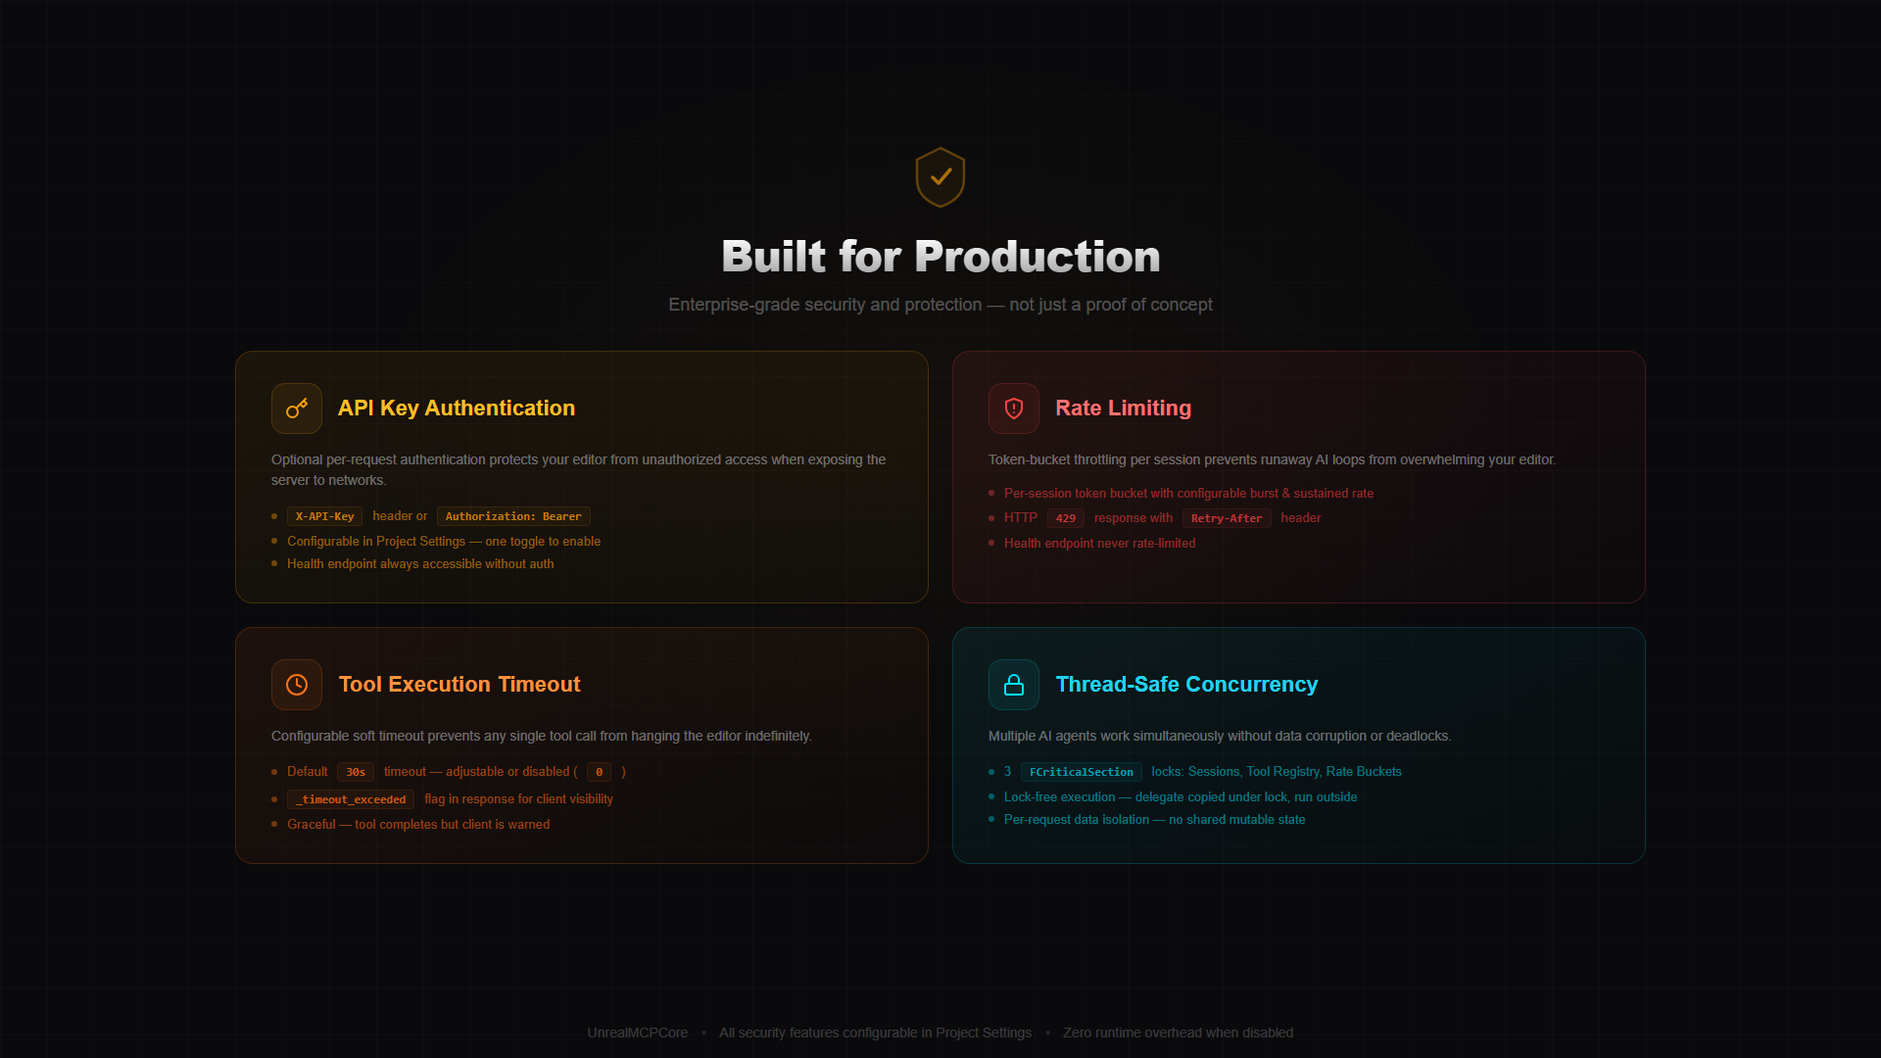
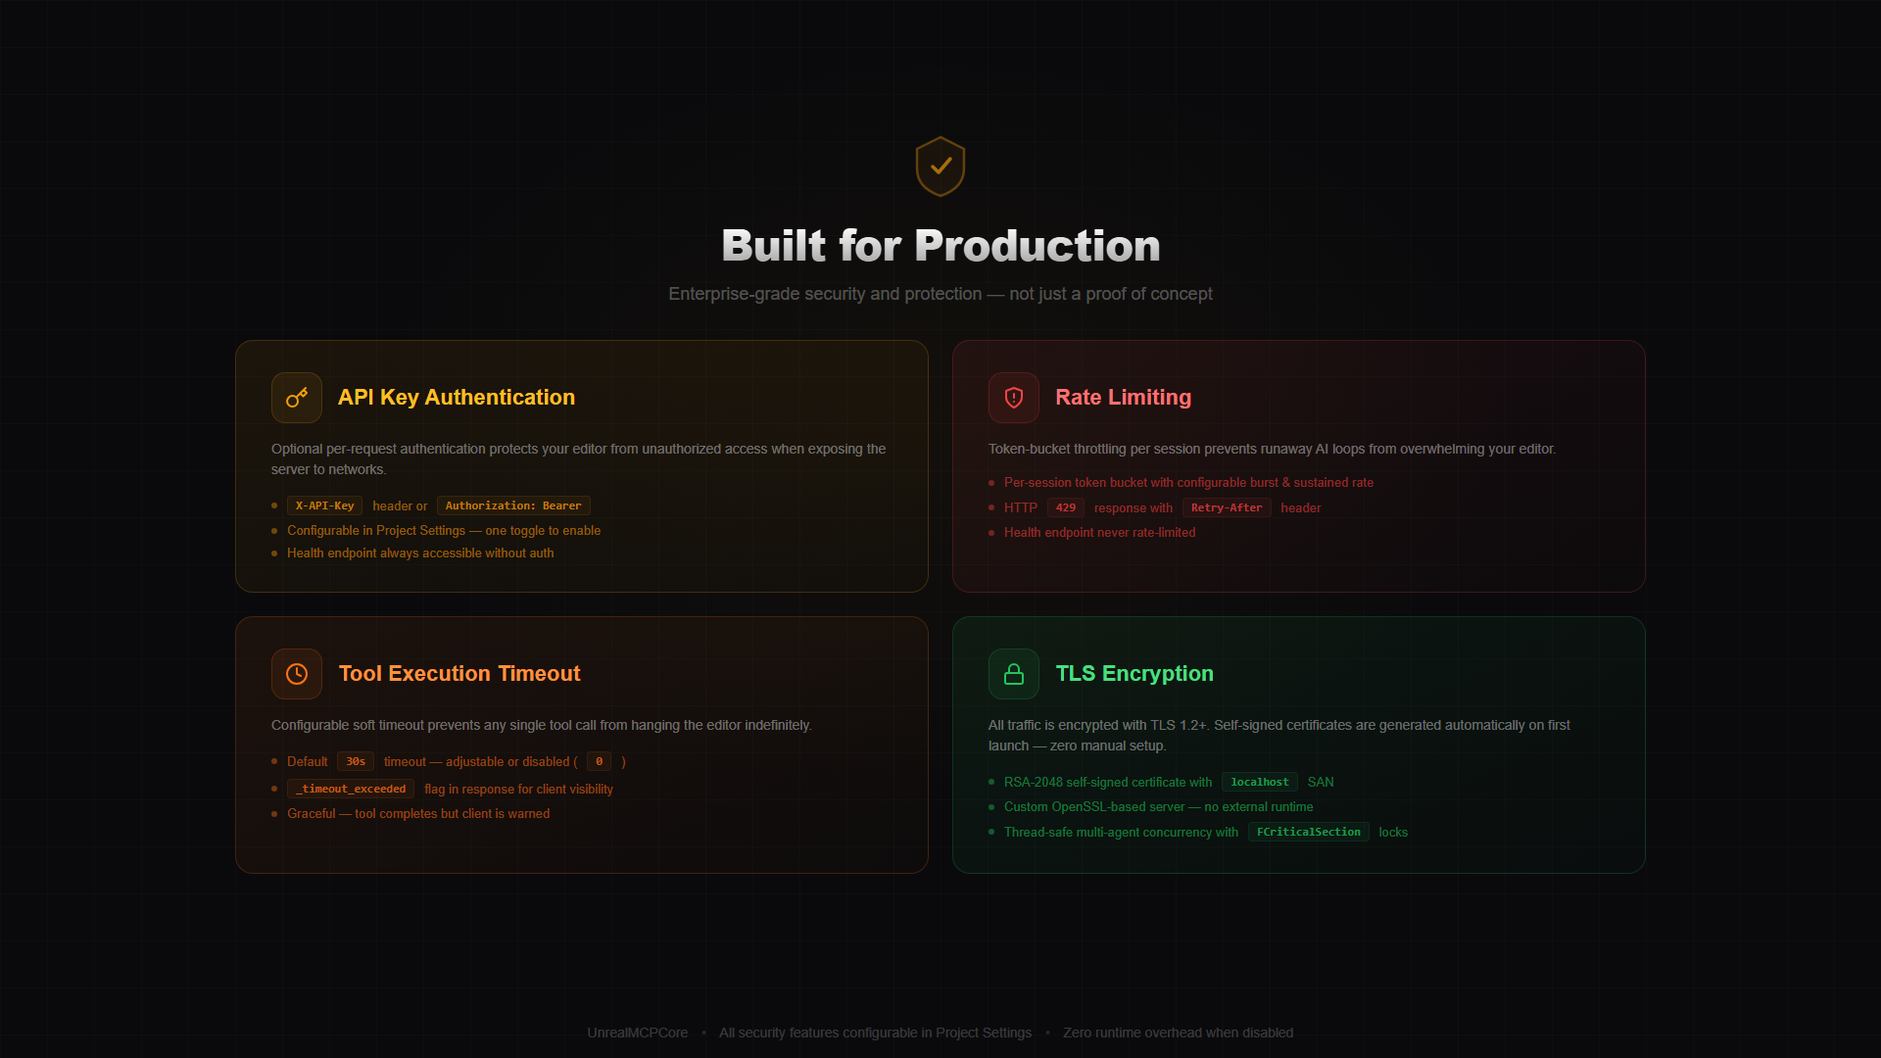
Updated for HTTPS

diff --git a/fab_media/gallery_09_security.html b/fab_media/gallery_09_security.html
@@ -168,6 +168,23 @@
     background: rgba(0,200,220,0.06); border: 1px solid rgba(0,200,220,0.10);
   }
 
+  /* ── Card 5: TLS Encryption — Green ── */
+  .card-tls {
+    background: linear-gradient(155deg, rgba(34,197,94,0.08), rgba(34,197,94,0.015));
+    border: 1.5px solid rgba(34,197,94,0.20);
+  }
+  .card-tls .card-icon {
+    background: rgba(34,197,94,0.08); border: 1px solid rgba(34,197,94,0.18);
+    color: #22c55e;
+  }
+  .card-tls .card-title { color: #4ade80; }
+  .card-tls .detail-row { color: rgba(34,197,94,0.55); }
+  .card-tls .dot { background: rgba(34,197,94,0.40); }
+  .card-tls code {
+    color: rgba(34,197,94,0.75);
+    background: rgba(34,197,94,0.06); border: 1px solid rgba(34,197,94,0.10);
+  }
+
   /* ── Bottom bar ── */
   .bottom-bar {
     position: absolute; bottom: 18px; left: 50%; transform: translateX(-50%);
@@ -256,21 +273,21 @@
     </div>
   </div>
 
-  <!-- Card 4: Thread Safety -->
-  <div class="feature-card card-thread">
+  <!-- Card 4: TLS Encryption -->
+  <div class="feature-card card-tls">
     <div class="card-header">
       <div class="card-icon">
         <svg width="24" height="24" viewBox="0 0 24 24" fill="none" stroke="currentColor" stroke-width="2" stroke-linecap="round" stroke-linejoin="round">
           <rect x="3" y="11" width="18" height="11" rx="2" ry="2"/><path d="M7 11V7a5 5 0 0 1 10 0v4"/>
         </svg>
       </div>
-      <div class="card-title">Thread-Safe Concurrency</div>
+      <div class="card-title">TLS Encryption</div>
     </div>
-    <div class="card-desc">Multiple AI agents work simultaneously without data corruption or deadlocks.</div>
+    <div class="card-desc">All traffic is encrypted with TLS 1.2+. Self-signed certificates are generated automatically on first launch — zero manual setup.</div>
     <div class="card-details">
-      <div class="detail-row"><div class="dot"></div>3 <code>FCriticalSection</code> locks: Sessions, Tool Registry, Rate Buckets</div>
-      <div class="detail-row"><div class="dot"></div>Lock-free execution — delegate copied under lock, run outside</div>
-      <div class="detail-row"><div class="dot"></div>Per-request data isolation — no shared mutable state</div>
+      <div class="detail-row"><div class="dot"></div>RSA-2048 self-signed certificate with <code>localhost</code> SAN</div>
+      <div class="detail-row"><div class="dot"></div>Custom OpenSSL-based server — no external runtime</div>
+      <div class="detail-row"><div class="dot"></div>Thread-safe multi-agent concurrency with <code>FCriticalSection</code> locks</div>
     </div>
   </div>
 

diff --git a/FAB_DESCRIPTION.html b/FAB_DESCRIPTION.html
@@ -10,7 +10,7 @@
 <h2>How It Works</h2>
 <ol>
 <li><strong>Install</strong> the plugin: the MCP server starts automatically when the editor opens.</li>
-<li><strong>Connect</strong> your AI client to <code>http://localhost:8090/mcp</code> (HTTP) or use the included stdio proxy for clients like Claude Desktop.</li>
+<li><strong>Connect</strong> your AI client to <code>https://localhost:8090/mcp</code> (HTTPS) or use the included stdio proxy for clients like Claude Desktop.</li>
 <li><strong>Build</strong>: your AI agent can now create Blueprints, edit materials, spawn actors, wire nodes, configure animations, and much more. 360 tools at its disposal.</li>
 </ol>
 
@@ -18,7 +18,7 @@
 <ul>
 <li><strong>360 Tools, 30 Categories:</strong> From Blueprints and Materials to Niagara VFX, PCG, Sequencer, GAS, and Animation Blueprints: the most comprehensive MCP bridge for Unreal Engine available.</li>
 <li><strong>Zero External Dependencies:</strong> Pure C++ plugin. No Python runtime, no Node.js server, no Docker containers. Install, open the editor, connect.</li>
-<li><strong>Works With Any MCP Client:</strong> Supports HTTP (Streamable HTTP + SSE) and stdio transports out of the box. Claude Desktop, Devin, Cursor, or any JSON-RPC 2.0 client.</li>
+<li><strong>Works With Any MCP Client:</strong> Supports HTTPS (Streamable HTTP + SSE) and stdio transports out of the box. Claude Desktop, Devin, Cursor, or any JSON-RPC 2.0 client.</li>
 <li><strong>Multi-Agent Ready:</strong> Multiple AI agents can connect simultaneously, each with their own session. Thread-safe by design.</li>
 <li><strong>Fab-Safe Architecture:</strong> Optional engine plugins (GAS, Niagara, PCG, etc.) are isolated into separate extension DLLs. If a plugin isn't installed in your project, those tools are silently skipped: everything else works perfectly.</li>
 <li><strong>Built-In Monitoring:</strong> The MCP Monitor Panel shows every tool call in real time with details, revert (undo), and retry. Dock it anywhere in the editor layout.</li>
@@ -57,7 +57,7 @@
 
 <h2>Code Modules</h2>
 <ul>
-<li><strong>UnrealMCPCore</strong> [Editor]: HTTP server, MCP protocol, 273 core tools, monitor panel, settings UI.</li>
+<li><strong>UnrealMCPCore</strong> [Editor]: HTTPS server (TLS 1.2+), MCP protocol, 273 core tools, monitor panel, settings UI.</li>
 <li><strong>9 Extension Modules</strong> [Editor]: GAS (13 tools), Niagara (11), PCG (13), StateTree (7), SmartObject (5), EnhancedInput (8), MetaSound (19), ControlRig (6), MotionDesign (5). Each loads independently; missing dependencies are silently skipped.</li>
 </ul>
 

diff --git a/FAB_TECHNICAL_DETAILS.html b/FAB_TECHNICAL_DETAILS.html
@@ -5,7 +5,7 @@
 
 <h2>Code Modules (all Editor)</h2>
 <ul>
-<li><b>UnrealMCPCore</b>: 273 core tools, HTTP server, JSON-RPC 2.0, MCP Monitor Panel, settings UI</li>
+<li><b>UnrealMCPCore</b>: 273 core tools, HTTPS server (TLS 1.2+), JSON-RPC 2.0, MCP Monitor Panel, settings UI</li>
 <li><b>UnrealMCPCoreGAS</b>: 13 Gameplay Ability System tools</li>
 <li><b>UnrealMCPCoreNiagara</b>: 11 Niagara VFX tools</li>
 <li><b>UnrealMCPCorePCG</b>: 13 Procedural Content Generation tools</li>
@@ -21,13 +21,13 @@
 
 <p><b>360 Tools</b> across 30 categories: Blueprint, Asset, Level, Material, Animation, Widget/UI, DataTable, PCG, Niagara, Sequencer, Behavior Tree, State Tree, EQS, Smart Object, Mesh, Enhanced Input, GAS, Audio, Landscape, Physics, Foliage, World Partition, Control Rig, Rendering, Curve, Motion Design, Project, PIE/Testing, and more.</p>
 
-<p><b>Protocol:</b> JSON-RPC 2.0 over MCP Streamable HTTP + stdio proxy<br>
+<p><b>Protocol:</b> JSON-RPC 2.0 over MCP Streamable HTTPS + stdio proxy<br>
 <b>Dependencies:</b> None — pure C++ plugin using only built-in UE modules<br>
 <b>Thread Safety:</b> FCriticalSection locks; multiple AI agents can connect simultaneously<br>
 <b>Platforms:</b> Win64, Mac, Linux | UE 5.5+</p>
 
 <h2>Compatible AI Clients</h2>
-<p>Claude Desktop, Devin, Cursor, Windsurf, or any JSON-RPC 2.0 client over HTTP/stdio.</p>
+<p>Claude Desktop, Devin, Cursor, Windsurf, or any JSON-RPC 2.0 client over HTTPS/stdio.</p>
 
 <h2>Documentation</h2>
 <p>Per-tool reference with schemas and examples: <a href="https://github.com/Franiboy/UnrealMCPCoreProject-Docs">GitHub Docs</a></p>

diff --git a/FAB_DESCRIPTION_FREE.html b/FAB_DESCRIPTION_FREE.html
@@ -10,7 +10,7 @@
 <h2>How It Works</h2>
 <ol>
 <li><strong>Install</strong> the plugin: the MCP server starts automatically when the editor opens.</li>
-<li><strong>Connect</strong> your AI client to <code>http://localhost:8090/mcp</code> (HTTP) or use the included stdio proxy for clients like Claude Desktop.</li>
+<li><strong>Connect</strong> your AI client to <code>https://localhost:8090/mcp</code> (HTTPS) or use the included stdio proxy for clients like Claude Desktop.</li>
 <li><strong>Build</strong>: your AI agent can create Blueprints, edit materials, spawn actors, and more.</li>
 </ol>
 
@@ -22,7 +22,7 @@
 
 <h2>Key Features (included in Free)</h2>
 <ul>
-<li><strong>MCP Server:</strong> JSON-RPC 2.0 over HTTP with auto-start, session management, and multi-agent support.</li>
+<li><strong>MCP Server:</strong> JSON-RPC 2.0 over HTTPS (TLS 1.2+) with auto-start, session management, and multi-agent support.</li>
 <li><strong>Monitor Panel:</strong> Real-time log of all tool calls with revert, retry, and dockable layout.</li>
 <li><strong>Client Config Helper:</strong> One-click JSON snippet for Claude Desktop, Cursor, or any MCP client.</li>
 <li><strong>stdio Proxy:</strong> Python script (stdlib only) for MCP clients that require subprocess communication.</li>

diff --git a/FAB_CHANGELOG.html b/FAB_CHANGELOG.html
@@ -9,7 +9,7 @@
 
 <p><strong>MCP Server &amp; Protocol</strong></p>
 <ul>
-<li>HTTP server with JSON-RPC 2.0 over MCP Streamable HTTP transport.</li>
+<li>HTTPS server (TLS 1.2+, self-signed certificates) with JSON-RPC 2.0 over MCP Streamable HTTP transport.</li>
 <li>Session management with auto-initialization: no handshake required, just send tool calls.</li>
 <li>Multi-session support: multiple AI agents (Devin, Claude Desktop, Cursor, etc.) can connect simultaneously.</li>
 <li>SSE (Server-Sent Events) response wrapping for MCP-compliant clients.</li>
@@ -26,7 +26,7 @@
 <li>Scrollable log table of all tool calls with details, summary, and clickable asset hyperlinks.</li>
 <li>Revert (undo) and Retry actions from context menu with multi-select support.</li>
 <li>Horizontal/vertical split layout, auto-scroll, dockable in any editor layout.</li>
-<li>Client Config Helper popup with ready-to-paste JSON for HTTP and stdio transports.</li>
+<li>Client Config Helper popup with ready-to-paste JSON for HTTPS and stdio transports.</li>
 </ul>
 
 <p><strong>360 Tools across 30 categories</strong></p>

diff --git a/fab_media/gallery_07_client_setup.html b/fab_media/gallery_07_client_setup.html
@@ -184,7 +184,7 @@
   <div class="config-card">
     <div class="card-header http">
       <div class="transport-badge">
-        <span class="label">HTTP Transport</span>
+        <span class="label">HTTPS Transport</span>
         <span class="tag">Recommended</span>
       </div>
       <span class="desc">Direct connection &mdash; no proxy needed</span>
@@ -192,7 +192,7 @@
     <div class="code-block http"><span class="syn-br">{</span>
   <span class="syn-key">"mcpServers"</span><span class="syn-br">: {</span>
     <span class="syn-key">"unreal"</span><span class="syn-br">: {</span>
-      <span class="syn-key">"url"</span><span class="syn-br">:</span> <span class="syn-str">"http://127.0.0.1:8090/mcp"</span>
+      <span class="syn-key">"url"</span><span class="syn-br">:</span> <span class="syn-str">"https://127.0.0.1:8090/mcp"</span>
     <span class="syn-br">}</span>
   <span class="syn-br">}</span>
 <span class="syn-br">}</span></div>

diff --git a/fab_media/gallery_02_architecture.html b/fab_media/gallery_02_architecture.html
@@ -216,7 +216,7 @@
       font-size:11px; font-weight:700; color:rgba(0,229,255,0.55);
       letter-spacing:2px; text-transform:uppercase;
       background:#0a0a0c; padding:3px 12px;
-      border:1px solid rgba(0,229,255,0.15); border-radius:4px;">HTTP / stdio</div>
+      border:1px solid rgba(0,229,255,0.15); border-radius:4px;">HTTPS / stdio</div>
   </div>
 
   <div class="server-block">
@@ -319,7 +319,7 @@
   <span>UnrealMCPCore v0.1-beta</span><div class="d"></div>
   <span>Unreal Engine 5.5+</span><div class="d"></div>
   <span>Win64 / Mac / Linux</span><div class="d"></div>
-  <span>HTTP + stdio Transport</span>
+  <span>HTTPS + stdio Transport</span>
 </div>
 
 </body>

diff --git a/fab_media/thumbnail.html b/fab_media/thumbnail.html
@@ -253,7 +253,7 @@
     <div class="plugin-block">
       <div class="plugin-icon">M</div>
       <div class="plugin-title">MCP Server</div>
-      <div class="plugin-sub">JSON-RPC 2.0 &middot; HTTP + stdio</div>
+      <div class="plugin-sub">JSON-RPC 2.0 &middot; HTTPS + stdio</div>
     </div>
 
     <div class="conn-right">
@@ -330,7 +330,7 @@
     <span>Unreal Engine 5.5+</span><div class="d"></div>
     <span>Win64 / Mac / Linux</span><div class="d"></div>
     <span>Multi-Agent Ready</span><div class="d"></div>
-    <span>HTTP + stdio Transport</span>
+    <span>HTTPS + stdio Transport</span>
   </div>
 
 </div>

diff --git a/fab_media/thumbnail_free.html b/fab_media/thumbnail_free.html
@@ -278,7 +278,7 @@
     <div class="plugin-block">
       <div class="plugin-icon">M</div>
       <div class="plugin-title">MCP Server</div>
-      <div class="plugin-sub">JSON-RPC 2.0 &middot; HTTP + stdio</div>
+      <div class="plugin-sub">JSON-RPC 2.0 &middot; HTTPS + stdio</div>
     </div>
 
     <div class="conn-right">

diff --git a/README.md b/README.md
@@ -1,10 +1,10 @@
 # UnrealMCPCore
 
-A pure C++ Unreal Engine 5 Editor plugin that exposes an MCP (Model Context Protocol) server over HTTP, enabling AI clients like Devin to read, write, and interact with Blueprints, Assets, Levels, and more — all without Python or Node.js dependencies.
+A pure C++ Unreal Engine 5 Editor plugin that exposes an MCP (Model Context Protocol) server over HTTPS, enabling AI clients like Devin to read, write, and interact with Blueprints, Assets, Levels, and more — all without Python or Node.js dependencies.
 
 ## Overview
 
-UnrealMCPCore runs an HTTP server inside the Unreal Editor on `localhost:8090`, speaking JSON-RPC 2.0 over the MCP protocol. AI agents connect to it and use registered tools to inspect and manipulate the project.
+UnrealMCPCore runs an HTTPS server (TLS 1.2+) inside the Unreal Editor on `localhost:8090`, speaking JSON-RPC 2.0 over the MCP protocol. A self-signed certificate is generated automatically on first launch — no manual setup required. AI agents connect to it and use registered tools to inspect and manipulate the project.
 
 **Engine Version:** UE 5.5  
 **Platform:** Win64, Mac, Linux  
@@ -14,8 +14,8 @@ UnrealMCPCore runs an HTTP server inside the Unreal Editor on `localhost:8090`, 
 ## Quick Start
 
 1. Open the project in Unreal Editor — the MCP server starts automatically on port 8090
-2. Verify with: `http://localhost:8090/mcp/health`
-3. Connect your MCP client to `http://localhost:8090/mcp`
+2. Verify with: `https://localhost:8090/mcp/health` (self-signed cert — use `curl -k` or disable verification in your client)
+3. Connect your MCP client to `https://localhost:8090/mcp`
 
 ### Console Commands
 
@@ -31,7 +31,7 @@ Accessible via **Project Settings > Plugins > MCP Core**.
 
 | Setting               | Default | Description                                                                                          |
 | --------------------- | ------- | ---------------------------------------------------------------------------------------------------- |
-| **Server Port**       | `8090`  | The port the HTTP server listens on. Requires editor restart.                                        |
+| **Server Port**       | `8090`  | The port the HTTPS server listens on. Requires editor restart.                                       |
 | **Auto Start Server** | `true`  | Automatically start the server when the editor loads.                                                |
 | **Verbose Logging**   | `false` | Log all MCP requests and responses in detail. Toggles live — no restart needed.                      |
 | **Max Log Entries**   | `1000`  | Maximum request log entries kept in memory.                                                          |
@@ -71,16 +71,16 @@ The panel refreshes automatically every 0.5 seconds. Only tool calls are shown i
 
 ### Client Config Helper
 
-Click the **"Client Config"** button (available in the Monitor Panel header and in Project Settings > MCP Core) to open a popup dialog with the ready-to-paste JSON snippet for your MCP client. A transport dropdown lets you switch between **HTTP** and **stdio** — the snippet updates automatically with the current server port and the resolved path to the stdio proxy script.
+Click the **"Client Config"** button (available in the Monitor Panel header and in Project Settings > MCP Core) to open a popup dialog with the ready-to-paste JSON snippet for your MCP client. A transport dropdown lets you switch between **HTTPS** and **stdio** — the snippet updates automatically with the current server port and the resolved path to the stdio proxy script.
 
 ## MCP Protocol
 
 The server implements the [Model Context Protocol](https://modelcontextprotocol.io/) over Streamable HTTP transport:
 
-- **Endpoint:** `POST http://localhost:8090/mcp` (JSON-RPC 2.0)
-- **Discovery:** `GET http://localhost:8090/mcp` (returns SSE `event: endpoint`)
-- **Health:** `GET http://localhost:8090/mcp/health`
-- **Session Termination:** `DELETE http://localhost:8090/mcp`
+- **Endpoint:** `POST https://localhost:8090/mcp` (JSON-RPC 2.0)
+- **Discovery:** `GET https://localhost:8090/mcp` (returns SSE `event: endpoint`)
+- **Health:** `GET https://localhost:8090/mcp/health`
+- **Session Termination:** `DELETE https://localhost:8090/mcp`
 
 ### SSE (Server-Sent Events) Support
 
@@ -88,11 +88,11 @@ The server supports the **Streamable HTTP** transport defined by the MCP spec. C
 
 `GET /mcp` returns an SSE `event: endpoint` with `data: {"uri":"…"}` for transport discovery, as specified by the Streamable HTTP protocol.
 
-> **Note:** UE5's built-in HTTP server is request/response only, so each SSE response is a single completed event — not a persistent stream. This covers all current MCP tool call semantics and lays the groundwork for future true-streaming support.
+> **Note:** The server uses a custom TLS server (OpenSSL) with one-shot request/response semantics, so each SSE response is a single completed event — not a persistent stream. This covers all current MCP tool call semantics and lays the groundwork for future true-streaming support.
 
 ### stdio Transport (Proxy)
 
-For MCP clients that only support **stdio** transport (spawning the server as a subprocess), a lightweight Python proxy script is included. It reads JSON-RPC from stdin, forwards to the HTTP server, and writes responses to stdout. No external dependencies — Python 3.7+ stdlib only.
+For MCP clients that only support **stdio** transport (spawning the server as a subprocess), a lightweight Python proxy script is included. It reads JSON-RPC from stdin, forwards to the HTTPS server (self-signed cert verification disabled), and writes responses to stdout. No external dependencies — Python 3.7+ stdlib only.
 
 **Claude Desktop** (`claude_desktop_config.json`):
 ```json
@@ -745,11 +745,11 @@ Authentication is **disabled by default**. Enable it when exposing the server to
 |                                                    |
 |  +---------------+   +-------------------------+  |
 |  | FMCPHttpServer |-->| FMCPProtocolHandler     |  |
-|  |  (port 8090)  |   |  - JSON-RPC 2.0         |  |
-|  |  - POST /mcp  |   |  - Session management   |  |
-|  |  - GET health |   |  - Tool registry        |  |
-|  +---------------+   |  - Tool dispatch         |  |
-|                       +-----+---+---+-----------+  |
+|  | FMCPTlsServer  |   |  - JSON-RPC 2.0         |  |
+|  |  (port 8090)  |   |  - Session management   |  |
+|  |  - POST /mcp  |   |  - Tool registry        |  |
+|  |  - GET health |   |  - Tool dispatch         |  |
+|  +---------------+   +-----+---+---+-----------+  |
 |                             |   |   |              |
 |       +---------------------+   |   +------+       |
 |       v                         v          v       |
@@ -784,6 +784,16 @@ At startup, the main module attempts to load each extension module via `FModuleM
 | `UnrealMCPCoreControlRig` | ControlRig | 6 Control Rig tools |
 | `UnrealMCPCoreMotionDesign` | ClonerEffector | 5 Motion Design tools |
 
+> **Note on Beta / Experimental Dependencies:**
+> Some extension modules depend on engine plugins that Epic Games marks as pre-release:
+>
+> | Extension Module | Required Plugin | Stability in UE 5.5 |
+> | --- | --- | --- |
+> | `UnrealMCPCorePCG` | PCG | **Beta** |
+> | `UnrealMCPCoreMotionDesign` | ClonerEffector | **Experimental** |
+>
+> These designations are set by Epic and may change in future engine versions. Because each extension is an isolated DLL, a breaking change in a Beta/Experimental plugin only affects that one module — all other tools remain available. If you encounter issues with these modules after an engine update, disable them in the MCP Core plugin settings until a compatible update is released.
+
 See the project README for the full technical details on the extension module architecture.
 
 For the full feature roadmap and checklist, see the project's **README_TODO.md**.
@@ -794,10 +804,10 @@ For the full feature roadmap and checklist, see the project's **README_TODO.md**
 MCP (Model Context Protocol) is an open standard by Anthropic that lets AI agents communicate with external tools over a structured JSON-RPC 2.0 interface. UnrealMCPCore implements an MCP server inside the Unreal Editor so any compatible AI client can connect and use its tools.
 
 **Q: Which AI clients work with this plugin?**
-Any client that speaks MCP over HTTP or stdio. Tested with Claude Desktop, Devin, and Cursor. The plugin includes an stdio proxy script for clients that require subprocess communication (e.g. Claude Desktop).
+Any client that speaks MCP over HTTPS or stdio. Tested with Claude Desktop, Devin, and Cursor. The plugin includes an stdio proxy script for clients that require subprocess communication (e.g. Claude Desktop).
 
 **Q: Does this plugin require Python or Node.js?**
-No. The plugin is pure C++ and runs entirely inside the Unreal Editor. The only Python component is an optional stdio proxy script (stdlib only, no pip dependencies) for MCP clients that don't support HTTP.
+No. The plugin is pure C++ and runs entirely inside the Unreal Editor. The only Python component is an optional stdio proxy script (stdlib only, no pip dependencies) for MCP clients that don't support HTTPS.
 
 **Q: Does it work at runtime / in packaged builds?**
 No. UnrealMCPCore is an Editor-only plugin. It is designed for development workflows where AI agents assist with building, editing, and inspecting the project inside the Unreal Editor. It has no effect on packaged builds.
